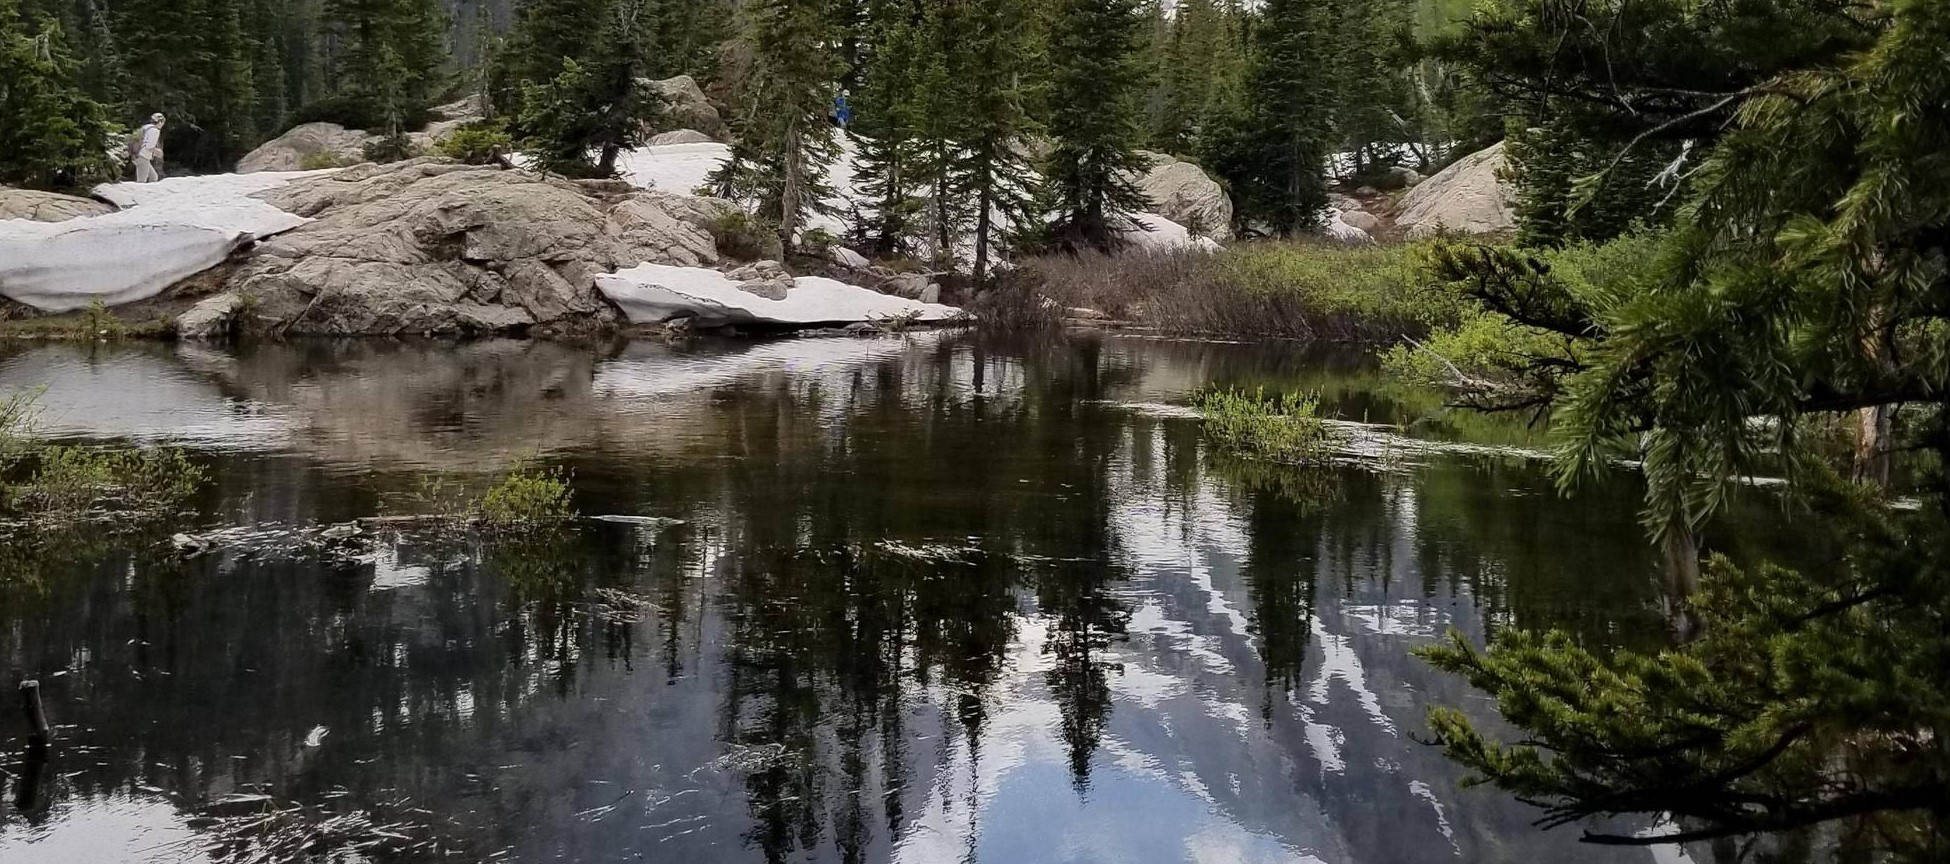
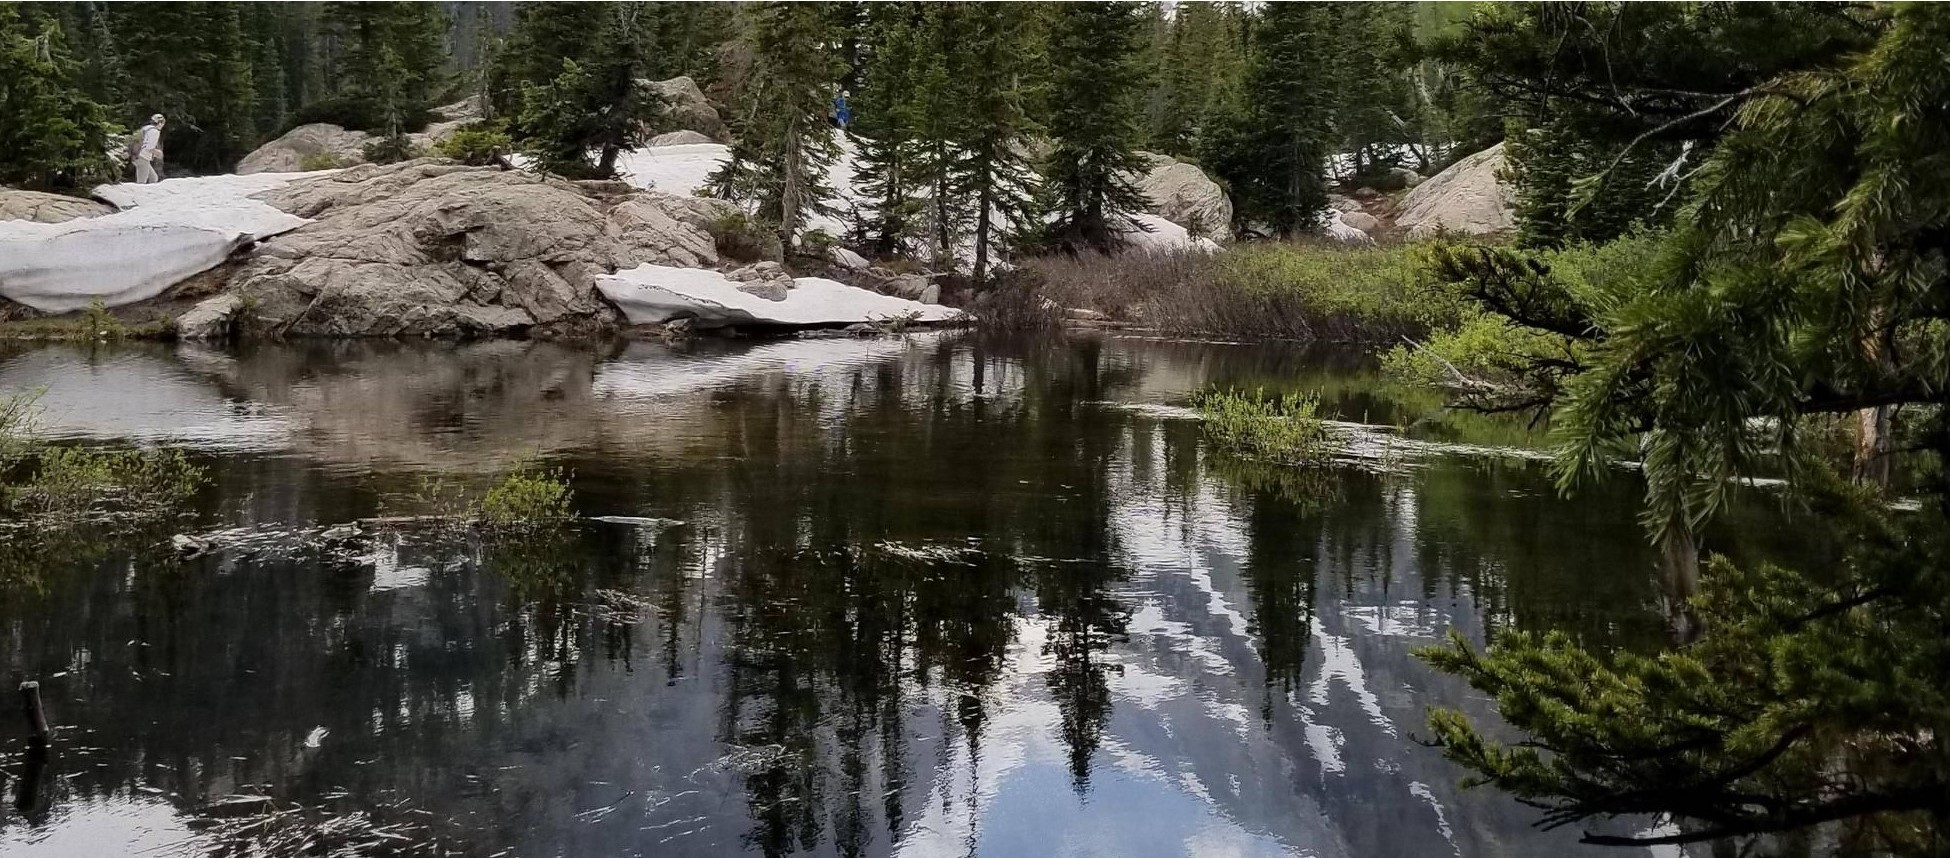
Se agregaron imagenes a la carpeta de static y se modifico main.html

diff --git a/Principal/templates/Principal/Main.html b/Principal/templates/Principal/Main.html
@@ -64,7 +64,7 @@
     </ol>
     <div class="carousel-inner">
       <div class="carousel-item active" height="325px" width="600px" style="max-width: auto; max-height: 700px">
-        <img class="d-block w-100 center" src="{% static 'main-ecologia-2.jpg' %}" alt="First slide" >
+        <img class="d-block w-100 center" src="{% static 'main-ecologia-5.jpg' %}" alt="First slide" >
         <div class="carousel-caption d-none d-md-block">
           <h2 class="carousel-color-letra-titulo">Salva al planeta</h2>
           <p class="carousel-color-letra-parrafo">Unete a los miles de proyectos registrados en World Help para contribuir al medio ambiente</p>
@@ -96,10 +96,5 @@
       <span class="sr-only">Next</span>
     </a>
   </div>
-
-
-
-
-
 </body>
 <html>
